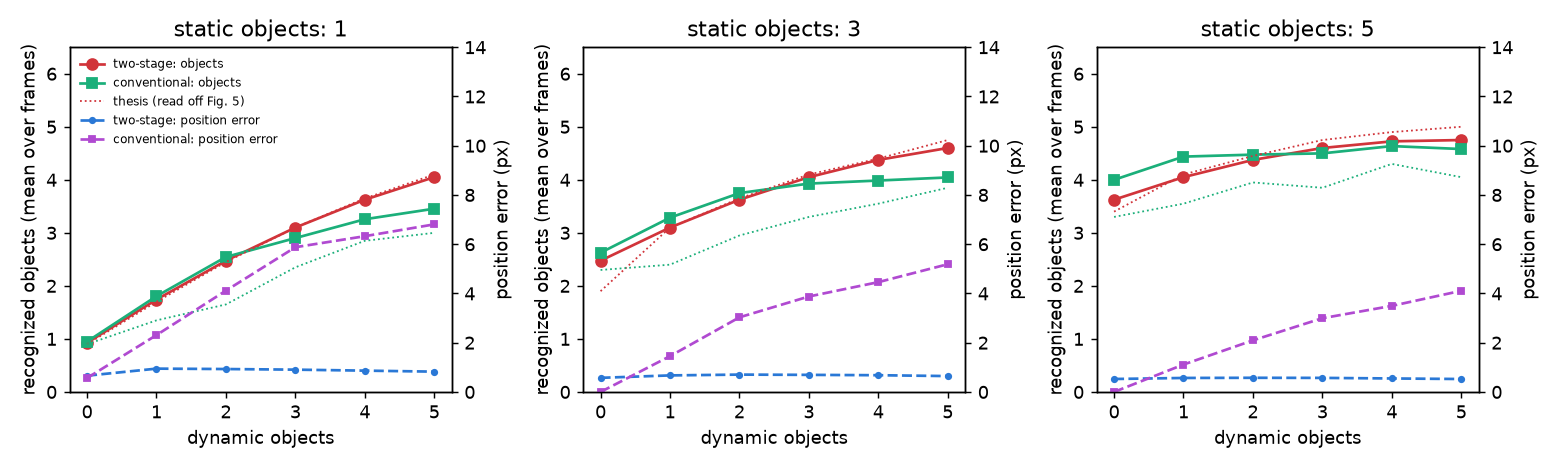
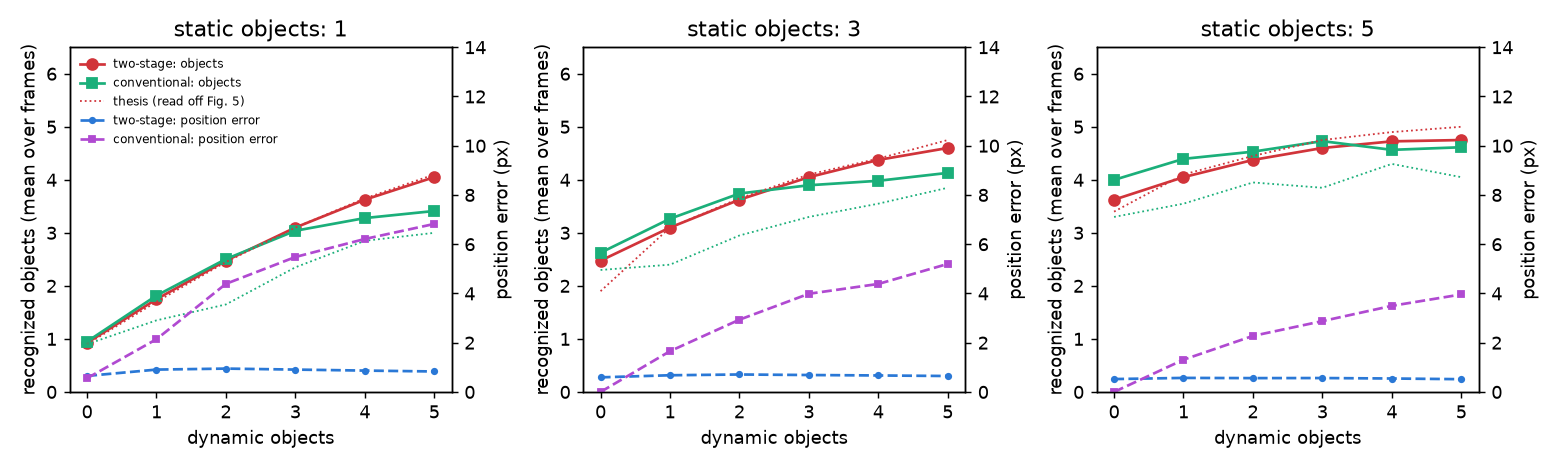
World model: portable scenes confirmed across platforms; the field's stability shows up as reproducibility
On identical scenes the two-stage model's scores agree between macOS and Linux to
four decimals in all 18 conditions; the conventional model's differ by up to 0.35
recognized objects, because it takes the maximum of a blurred noisy map. The
verdict is the same on both. Also: finding 22 re-run with the portable sampler
(crossover moves from three dynamic objects to four), and --demo no longer writes
its synthetic summary over a real run's output.

Claude-Session: https://claude.ai/code/session_01QTe5gEqgxfcCrGE5XzVLdo

diff --git a/paper/replication/main.tex b/paper/replication/main.tex
@@ -684,7 +684,10 @@ error of those. What the sources leave open (map size, velocity distribution,
 noise mean, when the conventional model's recognition looks at the focus) was
 fixed on development seeds, the last in the conventional model's favour; two
 variants were declared in advance; predictions were committed before the 50
-confirmatory runs (\texttt{3edd62f}). \src{dossier, finding 22; eval/replication.py --only world-model}
+confirmatory runs (\texttt{3edd62f}). The run was repeated once after the
+cross-platform check found that its scenes depended on the C++ standard library
+(Section~\ref{sec:repro}); the numbers below are the repeat, and the two runs
+agree except where noted. \src{dossier, finding 22; eval/replication.py --only world-model}
 
 \begin{figure}[t]
 \centering
@@ -702,17 +705,19 @@ lost---in all 18 conditions, and its curve is the thesis's curve (within 0.25 in
 there are objects in every condition. Its position error is 0.53--0.95~px; the
 conventional model's grows with the number of moving objects to 4--7~px. Pooled
 over the static counts, two-stage minus conventional recognized objects for 0--5
-dynamic objects: $-0.18$, $-0.21$, $-0.10$, $+0.14$, $+0.28$, $+0.44$, every
-interval excluding zero. So the thesis's scaling claim and its position-error
-claim replicate in direction and size; two statements do not: ``ahead as soon as
-anything moves'' (here: from three moving objects on) and ``below 0.5~px in every
-condition''. The first is the baseline's doing: the conventional model rebuilt
+dynamic objects: $-0.18$, $-0.19$, $-0.10$, $+0.03$, $+0.30$, $+0.41$, every
+interval but the one at three moving objects excluding zero. So the thesis's
+scaling claim and its position-error claim replicate in direction and size; two
+statements do not: ``ahead as soon as anything moves'' (here: from four moving
+objects on, and from three on the first sample of scenes---that step is the size
+of the scene-to-scene variation) and ``below 0.5~px in every condition''. The first is the baseline's doing: the conventional model rebuilt
 from the description reaches its own optimum in static scenes (4.00 with five
 objects) where the thesis's reached about 3.3, so the two-stage model's extra
 frame per recognition is paid back later. Why the thesis's baseline fell short
-the sources do not say. Four of five predictions held; the one about the variants
-was half right (with recognition looking at the focus when it \emph{ends}, two
-dynamic objects are a tie and the lead from three on grows to $+0.61$).
+the sources do not say. All five predictions held in their stated refutation
+criteria; two were imprecise in a detail (the crossover sits one step later than
+guessed, and positive-mean noise costs the lead at three moving objects rather
+than at four and five).
 
 \paragraph{A third parameter finding.} Building this experiment exposed what
 Finding~B had missed: over a stream the deployed system ran its field for a
@@ -1234,6 +1239,7 @@ comparison first.
 \end{itemize}
 
 \section{Reproducibility}
+\label{sec:repro}
 Every number in this paper is printed by one of four commands, on a laptop CPU,
 with no learned model and no API key:
 \begin{center}\small
@@ -1268,9 +1274,20 @@ are drawn from a seeded generator, but through
 implementation-defined: the two standard libraries draw different sequences from
 the same seed, so the same ``seed 1000'' was a different scene on the two
 machines. A seed is not a guarantee of the same data unless the sampler is
-pinned as well. The scenes are now drawn by a portable routine and
-Section~\ref{sec:worldmodel} reports the re-run. \todo{numbers, when it
-finishes.}
+pinned as well. The scenes are now drawn by a portable routine, and the re-run
+is what Section~\ref{sec:worldmodel} reports; it moves the crossover in that
+experiment by one condition and changes nothing else.
+
+With the scenes pinned, a second difference remains, and it is worth a sentence
+because it is the thesis's own argument showing up as a reproducibility
+property. On identical scenes the two-stage model's scores agree between the two
+platforms to four decimals in all 18 conditions, and so does its number of
+activity clusters; the conventional model's differ by up to 0.35 recognized
+objects. The conventional model selects the maximum of a blurred, noisy map, so
+a difference of one unit in the last place can change which pixel wins and the
+run diverges from there. A neural field with hysteresis, integrating over space
+and time, does not flip on a marginal difference. The verdict of that experiment
+is the same on both platforms.
 
 \section*{Acknowledgements}
 The original system was built in B\"arbel Mertsching's group, and the parts of it

diff --git a/eval/scanpath_vs_human.py b/eval/scanpath_vs_human.py
@@ -52,6 +52,13 @@ MM_DIMS = ("shape", "direction", "length", "position")
 
 # --- scoring ----------------------------------------------------------------
 
+# ScanMatch's gap value. Cristino et al. set it to 0 in their own experiments
+# and let the normalization by the longer sequence carry the length dependence;
+# 0.2 is this implementation's default. --scanmatch-gap sets it, so that a
+# conclusion can be checked against both (docs/SCANPATH_VS_HUMAN.md).
+SCANMATCH_GAP = [0.2]
+
+
 def score_vs_humans(path, human_paths, size):
     """Mean MultiMatch dims + ScanMatch of one model scanpath against every
     human observer's sequence."""
@@ -62,7 +69,7 @@ def score_vs_humans(path, human_paths, size):
         for d in MM_DIMS:
             if not np.isnan(m[d]):
                 mm[d].append(m[d])
-        s = scanmatch(path, human, size)
+        s = scanmatch(path, human, size, gap=SCANMATCH_GAP[0])
         if not np.isnan(s):
             sm.append(s)
     row = {d: (float(np.mean(mm[d])) if mm[d] else float("nan")) for d in MM_DIMS}
@@ -89,6 +96,20 @@ def interobserver_ceiling(human_paths, size):
 def random_path(size, n, rng):
     w, h = size
     return [(float(rng.uniform(0, w)), float(rng.uniform(0, h))) for _ in range(n)]
+
+
+def center_sampled_path(size, n, rng, sigma_frac=0.22):
+    """Fixations drawn i.i.d. from a Gaussian centred in the image — the centre
+    baseline as Schwinn et al. (2022) define it, against center_path's constant
+    one. The two differ only in determinism, which is what separates
+    "the centre is where people look" from "a repeatable path scores well"."""
+    w, h = size
+    out = []
+    for _ in range(n):
+        x = float(np.clip(rng.normal(w / 2, sigma_frac * w), 0, w - 1))
+        y = float(np.clip(rng.normal(h / 2, sigma_frac * h), 0, h - 1))
+        out.append((x, y))
+    return out
 
 
 def center_path(size, n):
@@ -258,6 +279,7 @@ def run_mit1003(args):
         rng = np.random.RandomState(args.seed + n)
         row["random"] = score_vs_humans(random_path(size, args.n, rng), humans, size)
         row["center"] = score_vs_humans(center_path(size, args.n), humans, size)
+        row["center-sampled"] = score_vs_humans(center_sampled_path(size, args.n, rng), humans, size)
         rows[stimulus.stem] = row
         if (n + 1) % 25 == 0:
             print("  %d stimuli" % (n + 1), file=sys.stderr)
@@ -358,7 +380,7 @@ def demo(args):
 
 ARM_ORDER = ["inter-observer", "thesis-field", "thesis-objfile", "thesis-wta", "thesis-stoch-best",
              "inter-observer@k", "thesis-field@k", "thesis-wta@k", "center@k", "random@k",
-             "spectral-residual-wta", "center-bias-wta", "deepgaze-iie-wta", "center", "random"]
+             "spectral-residual-wta", "center-bias-wta", "deepgaze-iie-wta", "center", "center-sampled", "random"]
 
 
 def summarize(per_arm):
@@ -416,8 +438,11 @@ def main():
     ap.add_argument("--n", type=int, default=10, help="fixations per model scanpath")
     ap.add_argument("--samples", type=int, default=10, help="stochastic samples for best-of-N")
     ap.add_argument("--seed", type=int, default=0)
+    ap.add_argument("--scanmatch-gap", type=float, default=SCANMATCH_GAP[0],
+                    help="ScanMatch gap penalty (default %(default)s; Cristino et al. use 0)")
     ap.add_argument("--json", action="store_true")
     args = ap.parse_args()
+    SCANMATCH_GAP[0] = args.scanmatch_gap
 
     if args.mit1003:
         if not os.path.exists(args.binary):
@@ -425,6 +450,10 @@ def main():
         summary = run_mit1003(args)
     elif args.demo:
         summary = demo(args)
+        # The demo is a smoke test, not a study: never let it write its
+        # synthetic summary over a real run's output.
+        if args.out == ap.get_default("out"):
+            args.out = os.path.join(args.out, "demo")
     else:
         sys.exit("nothing to do: pass --demo or --mit1003")
 

diff --git a/docs/replication/REPLICATION_DOSSIER.md b/docs/replication/REPLICATION_DOSSIER.md
@@ -56,7 +56,7 @@ been ported from the original and the affected rows re-run.
 | 19 | Abb. 6.8 | A stable state is reached in about 10 cycles | **replicated** — 10 cycles |
 | 20 | Abb. 6.9 | Tracking a target in noise: within limits ~10 update cycles per frame suffice; weak (0.5) and fast targets are the limit | **replicated** with the dissertation parameters; *diverged* with the port's defaults (most moving targets lost) |
 | 21 | Abb. 6.10 | Two approaching maxima: repulsion, then merging below distance 5; no oscillation | **replicated** with the dissertation parameters (merge at 5, one clean transition, re-split only at 13); *diverged* with the port's defaults (never merge) |
-| 22 | §9.2, Abb. 9.2 (WAPCV 2003, Fig. 5) | The two-stage model keeps a better world model than a conventional inhibition-map model as soon as objects move: more recognized objects, position error < 0.5 px against 0.5–5 px | **partially** — the two-stage model's curve is the thesis's, to within 0.01 of its optimum; position error 0.5–0.95 px against up to 7; but it is ahead only from three dynamic objects on, because the conventional baseline built from the description is stronger than the thesis's |
+| 22 | §9.2, Abb. 9.2 (WAPCV 2003, Fig. 5) | The two-stage model keeps a better world model than a conventional inhibition-map model as soon as objects move: more recognized objects, position error < 0.5 px against 0.5–5 px | **partially** — the two-stage model's curve is the thesis's, to within 0.01 of its optimum; position error 0.5–0.95 px against up to 7; but it is ahead only from four dynamic objects on, because the conventional baseline built from the description is stronger than the thesis's |
 | 10 | Abb. 6.14 | Object identity survives temporary occlusion when several objects are tracked | **partially** — on the thesis's chain at trackable speed, object-based inhibition keeps its advantage through a 10-frame occlusion (`occlusion-slow`, 2026-09-22), but identity is re-labelled (2.9 labels per object; §7.2.3 as written: 2.7 in the fast occlusion regime) |
 | — | Abb. 5.33, 5.35, 6.11–6.13, §9.3 | superposition, 2D vs 3D integration, multi-field systems and the 3D field, flanker and early-vs-late selection | **not attempted** (below) |
 
@@ -536,7 +536,14 @@ over the 50 runs excludes zero.
    positive-mean noise lets noise clusters through (more clusters than objects)
    and costs the two-stage model its lead except at 5 dynamic objects.
 
-#### Outcome (seeds 1000–1049, 50 runs per condition, 2026-09-21)
+#### Outcome (seeds 1000–1049, 50 runs per condition, 2026-09-21; re-run 2026-09-22)
+
+*The numbers below are the re-run with the portable scene sampler (see "The
+dossier on a second platform"). The pre-fix run is preserved in
+`results/replication_world_model_libcxx.json`; the two differ only in the scenes
+they drew, and the table notes where that matters. The two-stage column is
+identical to two decimals in all 18 conditions, because that model reaches its
+optimum on every scene either way.*
 
 ![recognized objects and position error, two-stage against conventional, with the thesis's curves](figures/world_model.png)
 
@@ -544,30 +551,35 @@ over the 50 runs excludes zero.
 runs, 95% CI; **bold** = interval excludes zero. "Optimum": every object
 recognized at the first opportunity and never lost. "Thesis": read off Fig. 5.
 
-| Static | Dynamic | Two-stage | optimum | thesis | Conventional | thesis | Δ recognized | Position error: two-stage / conventional (px) |
+| Static | Dynamic | Two-stage | optimum | thesis | Conventional | thesis | Δ recognized | Two-stage position error (px) |
 |---|---|---|---|---|---|---|---|---|
-| 1 | 0 | 0.92 | 0.93 | 0.9 | 0.95 | 0.9 | **−0.02** | 0.66 / 0.56 |
-| 1 | 1 | 1.74 | 1.75 | 1.7 | 1.81 | 1.35 | **−0.06** | 0.95 / 2.31 |
-| 1 | 2 | 2.47 | 2.48 | 2.45 | 2.55 | 1.65 | **−0.07** | 0.93 / 4.11 |
-| 1 | 3 | 3.10 | 3.10 | 3.1 | 2.90 | 2.35 | **+0.20 [+0.11, +0.29]** | 0.91 / 5.88 |
-| 1 | 4 | 3.62 | 3.62 | 3.65 | 3.26 | 2.85 | **+0.37 [+0.28, +0.46]** | 0.87 / 6.33 |
-| 1 | 5 | 4.05 | 4.05 | 4.1 | 3.46 | 3.0 | **+0.59 [+0.50, +0.70]** | 0.82 / 6.81 |
-| 3 | 0 | 2.47 | 2.48 | 1.9 | 2.62 | 2.3 | **−0.15** | 0.57 / 0.00 |
-| 3 | 1 | 3.10 | 3.10 | 3.1 | 3.29 | 2.4 | **−0.19 [−0.22, −0.15]** | 0.67 / 1.45 |
-| 3 | 2 | 3.62 | 3.62 | 3.65 | 3.75 | 2.95 | **−0.12 [−0.19, −0.05]** | 0.70 / 3.03 |
-| 3 | 3 | 4.05 | 4.05 | 4.1 | 3.93 | 3.3 | **+0.12 [+0.03, +0.22]** | 0.69 / 3.88 |
-| 3 | 4 | 4.38 | 4.38 | 4.4 | 3.99 | 3.55 | **+0.39 [+0.26, +0.52]** | 0.68 / 4.46 |
-| 3 | 5 | 4.60 | 4.60 | 4.75 | 4.04 | 3.85 | **+0.56 [+0.42, +0.69]** | 0.64 / 5.19 |
-| 5 | 0 | 3.62 | 3.62 | 3.4 | 4.00 | 3.3 | **−0.38** | 0.53 / 0.00 |
-| 5 | 1 | 4.05 | 4.05 | 4.1 | 4.44 | 3.55 | **−0.39 [−0.44, −0.33]** | 0.57 / 1.11 |
-| 5 | 2 | 4.38 | 4.38 | 4.45 | 4.47 | 3.95 | −0.10 [−0.21, +0.01] | 0.57 / 2.09 |
-| 5 | 3 | 4.60 | 4.60 | 4.75 | 4.50 | 3.85 | +0.10 [−0.01, +0.22] | 0.57 / 2.99 |
-| 5 | 4 | 4.72 | 4.72 | 4.9 | 4.64 | 4.3 | +0.09 [−0.03, +0.21] | 0.55 / 3.50 |
-| 5 | 5 | 4.75 | 4.75 | 5.0 | 4.58 | 4.05 | **+0.17 [+0.03, +0.32]** | 0.53 / 4.11 |
+| 1 | 0 | 0.92 | 0.93 | 0.9 | 0.95 | 0.9 | **−0.02** | 0.65 |
+| 1 | 1 | 1.75 | 1.75 | 1.7 | 1.82 | 1.35 | **−0.07** | 0.91 |
+| 1 | 2 | 2.47 | 2.48 | 2.45 | 2.51 | 1.65 | −0.03 [−0.07, +0.02] | 0.95 |
+| 1 | 3 | 3.10 | 3.10 | 3.1 | 3.04 | 2.35 | **+0.06 [+0.00, +0.12]** | 0.91 |
+| 1 | 4 | 3.62 | 3.62 | 3.65 | 3.28 | 2.85 | **+0.35 [+0.25, +0.45]** | 0.87 |
+| 1 | 5 | 4.05 | 4.05 | 4.1 | 3.41 | 3.0 | **+0.64 [+0.54, +0.73]** | 0.83 |
+| 3 | 0 | 2.47 | 2.48 | 1.9 | 2.62 | 2.3 | **−0.15** | 0.59 |
+| 3 | 1 | 3.10 | 3.10 | 3.1 | 3.27 | 2.4 | **−0.17 [−0.20, −0.12]** | 0.68 |
+| 3 | 2 | 3.62 | 3.62 | 3.65 | 3.74 | 2.95 | **−0.12 [−0.20, −0.02]** | 0.71 |
+| 3 | 3 | 4.05 | 4.05 | 4.1 | 3.90 | 3.3 | **+0.15 [+0.05, +0.26]** | 0.69 |
+| 3 | 4 | 4.38 | 4.38 | 4.4 | 3.98 | 3.55 | **+0.39 [+0.27, +0.52]** | 0.67 |
+| 3 | 5 | 4.60 | 4.60 | 4.75 | 4.13 | 3.85 | **+0.47 [+0.33, +0.61]** | 0.65 |
+| 5 | 0 | 3.62 | 3.62 | 3.4 | 4.00 | 3.3 | **−0.37** | 0.52 |
+| 5 | 1 | 4.05 | 4.05 | 4.1 | 4.39 | 3.55 | **−0.35 [−0.41, −0.27]** | 0.57 |
+| 5 | 2 | 4.38 | 4.38 | 4.45 | 4.53 | 3.95 | **−0.16 [−0.26, −0.04]** | 0.56 |
+| 5 | 3 | 4.60 | 4.60 | 4.75 | 4.73 | 3.85 | **−0.13 [−0.24, −0.02]** | 0.56 |
+| 5 | 4 | 4.72 | 4.72 | 4.9 | 4.56 | 4.3 | **+0.16 [+0.03, +0.29]** | 0.55 |
+| 5 | 5 | 4.75 | 4.75 | 5.0 | 4.61 | 4.05 | +0.14 [−0.00, +0.28] | 0.52 |
 
 Pooled over the static counts, by number of dynamic objects (0–5): **−0.18,
-−0.21, −0.10, +0.14, +0.28, +0.44**, every interval excluding zero. The number of
-activity clusters equals the number of objects in every condition, exactly.
+−0.19, −0.10**, +0.03 [−0.03, +0.09], **+0.30, +0.41** — every interval but the
+one at three dynamic objects excluding zero. (Pre-fix, on the other scenes:
+−0.18, −0.21, −0.10, **+0.14**, +0.28, +0.44; the crossover sat one step earlier.
+Everything else agrees.) The number of activity clusters equals the number of
+objects in every condition, exactly. The conventional model's position error
+grows from 0.0 to 6.8 px with the number of moving objects; the two-stage
+model's stays between 0.52 and 0.95 px.
 
 **The predictions, scored.**
 
@@ -577,20 +589,22 @@ activity clusters equals the number of objects in every condition, exactly.
    the thesis's own value for three objects in the neighbouring panel (2.45).
 2. *Without dynamic objects the conventional model is ahead* — **holds.**
 3. *"Ahead with any dynamic object" does not replicate as stated* — **holds**:
-   the two-stage model is ahead from three dynamic objects on, the conventional
-   model with one and (not predicted that clearly) with two. With five static
-   objects the lead is within the interval until there are five dynamic ones.
+   the two-stage model is ahead from **four** dynamic objects on, tied at three,
+   and behind with one or two. The prediction's refutation criteria (ahead with
+   one or two; not ahead with four and five) are both untouched; only the
+   crossover sits one step later than the prediction guessed. On the pre-fix
+   scenes it sat at three, which is the size of the scene-sampling difference.
 4. *Position error* — **holds**: two-stage 0.53–0.95 px everywhere, below the
    conventional model's wherever anything moves; the conventional model's grows
    to 4–7 px and passes 3 px once the dynamic objects outnumber the static ones.
    The thesis's "< 0.5 px in every condition" is not met.
-5. *The variants* — **partly.** With the conventional model's recognition looking
-   at the focus when it *ends*, two dynamic objects are a tie (+0.04 [−0.02,
-   +0.11]) and the lead from three on grows (+0.29, +0.43, +0.61) — a tie, not the
-   predicted crossover. Positive-mean noise does let noise clusters through (7–18
-   clusters for 1–6 objects) and raises the two-stage position error to 1.7 px,
-   but the lead survives at four and five dynamic objects (+0.17, +0.35), not only
-   at five.
+5. *The variants* — **holds for the first, partly for the second.** With the
+   conventional model's recognition looking at the focus when it *ends*, the
+   crossover moves to two dynamic objects (+0.07) exactly as predicted, and the
+   lead grows from there (+0.17, +0.43, +0.59). Positive-mean noise does let
+   noise clusters through (7–18 clusters for 1–6 objects) and raises the
+   two-stage position error to 1.7 px, but the lead survives at four and five
+   dynamic objects (+0.17, +0.29), not only at five.
 
 **Verdict: partially replicated — and the part that does not is the baseline's.**
 The two-stage model behaves as the thesis reports, quantitatively: its curve is
@@ -601,7 +615,7 @@ objects, as claimed. What does not replicate is "ahead as soon as anything
 moves": the conventional model built here from the thesis's description
 recognizes more than the thesis's did — it reaches its own optimum in static
 scenes (4.00 of 4.0 with five objects; the thesis's reached about 3.3) — so the
-two-stage model's extra frame per recognition is only paid back from three
+two-stage model's extra frame per recognition is only paid back from four
 moving objects on. Why the thesis's baseline fell short of its optimum the
 sources do not say. The position-error claim holds in direction and size of the
 gap, not at the stated 0.5 px.
@@ -659,6 +673,20 @@ two platforms. The scenes are now sampled by a portable routine
 the same predictions; both sets of numbers are reported there. The practical
 lesson for anyone re-running an old experiment: a seed is not a guarantee of the
 same data unless the sampler is fixed too.
+
+**After the fix the two models behave differently across platforms, and the
+difference is informative.** On identical scenes (10 runs per condition, both
+platforms), the two-stage model's recognized-object counts agree **exactly** —
+to four decimals in all 18 conditions — and so does the number of activity
+clusters. The conventional model's differ by up to **0.35** objects. The likely
+reason is in its selection step: it takes the maximum of a blurred, noisy map,
+so a difference of one unit in the last place can change which pixel wins, after
+which the two runs visit different objects and diverge. The neural field
+integrates over space and time and has hysteresis, and does not flip on a
+marginal difference — which is what the thesis claims for it (findings 16–18).
+The verdict is unaffected: on both platforms the pooled difference is negative
+for 0–2 dynamic objects, indistinguishable from zero at 3, and positive at 4 and
+5.
 
 ## What the dossier says about the reimplementation
 

diff --git a/paper/replication/CLAIMS.md b/paper/replication/CLAIMS.md
@@ -81,7 +81,7 @@ Source: `docs/SCANPATH_VS_HUMAN.md`. Command
 | # | Claim | Value | Source | Status |
 |---|---|---|---|---|
 | 4.1 | Study 1 on Linux vs macOS: of 1420 values none differs by more than 1e-3, one by more than 1e-4 (0.8847 vs 0.8849) | dossier, "The dossier on a second platform" | `.github/workflows/replication.yml` (manual) → artifact; `tools/compare_replication.py --exclude world-model`; `results/replication_linux`, `results/replication_macos` | ok |
-| 4.2 | The world-model scenes were not portable: `std::uniform_real_distribution` is implementation-defined, so the same seed gave different scenes on libc++ and libstdc++; fixed, finding 22 re-run | same; commit `eee75a5` | `results/replication_world_model_libcxx.json` keeps the pre-fix run | **open** — re-run in flight |
+| 4.2 | The world-model scenes were not portable (`std::uniform_real_distribution`); fixed, finding 22 re-run (crossover moves from 3 to 4 dynamic objects, nothing else changes). After the fix: two-stage scores and cluster counts identical across platforms to 4 decimals, conventional differs by up to 0.35; verdict unchanged on both | dossier, "The dossier on a second platform"; commit `eee75a5` | `results/replication_macos_v2`, `results/replication_linux_wm` (10 runs); pre-fix run in `results/replication_world_model_libcxx.json` | ok |
 
 ## Statements that are not numbers, and who vouches for them
 
